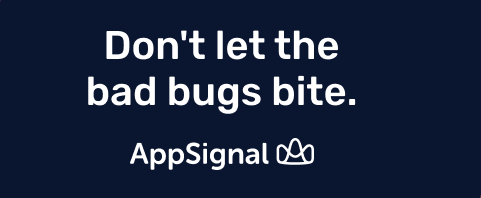
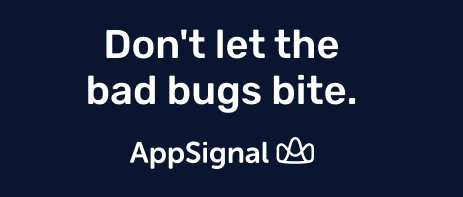
replace images

diff --git a/master.css b/master.css
@@ -156,7 +156,7 @@ section .container {
 
 .sponsored {
     position: relative;
-    background-image: url(./images/app_signal.png);
+    background-image: url(./images/fem.png);
     background-position: center;
     background-repeat: no-repeat;
     background-size: cover;
@@ -403,5 +403,12 @@ footer li {
     #blog_cards ul li {
         margin-right: 0.3em;
         padding: 0.3em 0.5em;  
+    }
+
+    .sponsored {
+        background-image: url(./images/fem_small.png);
+        background-size: contain;
+        width: 100%;
+       
     }
 }
